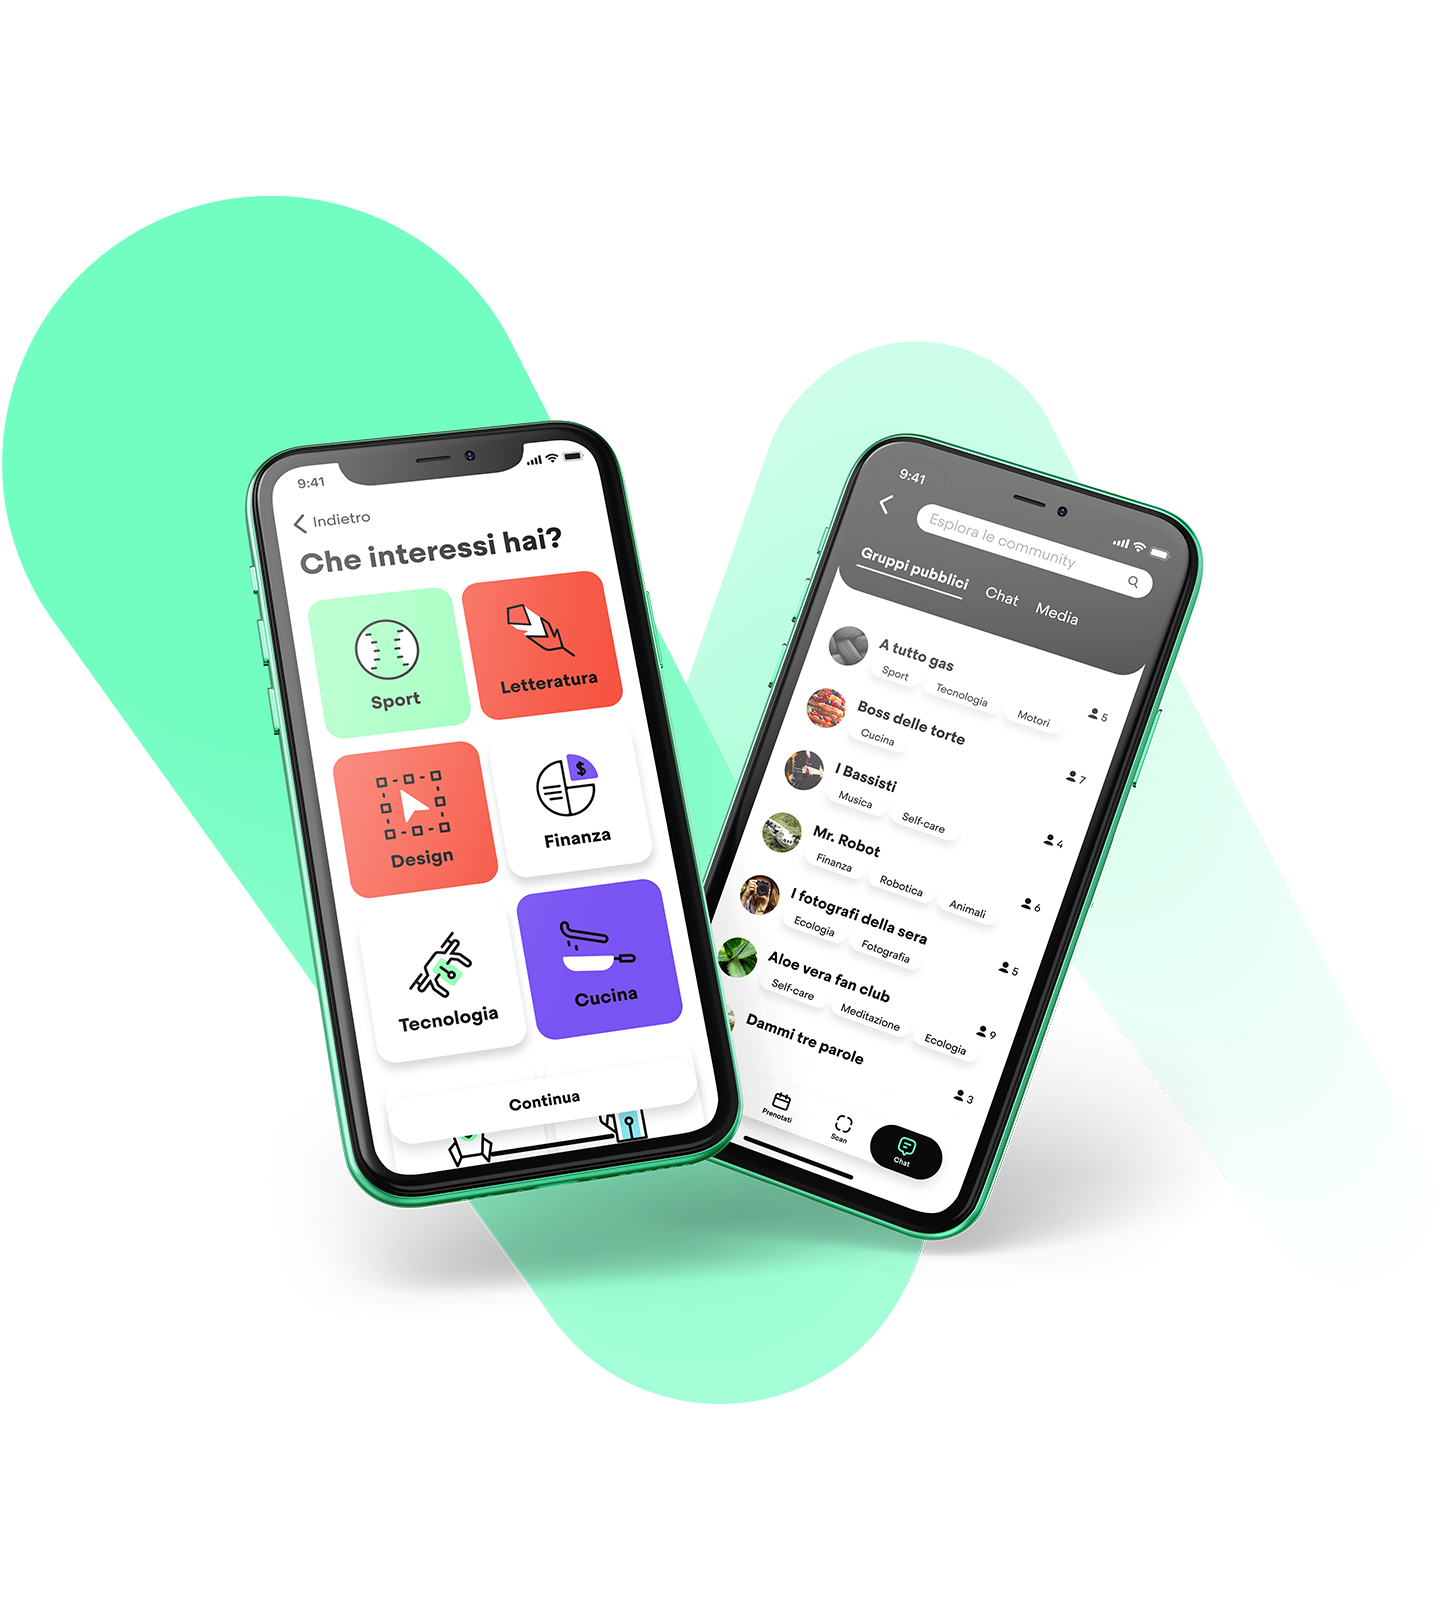
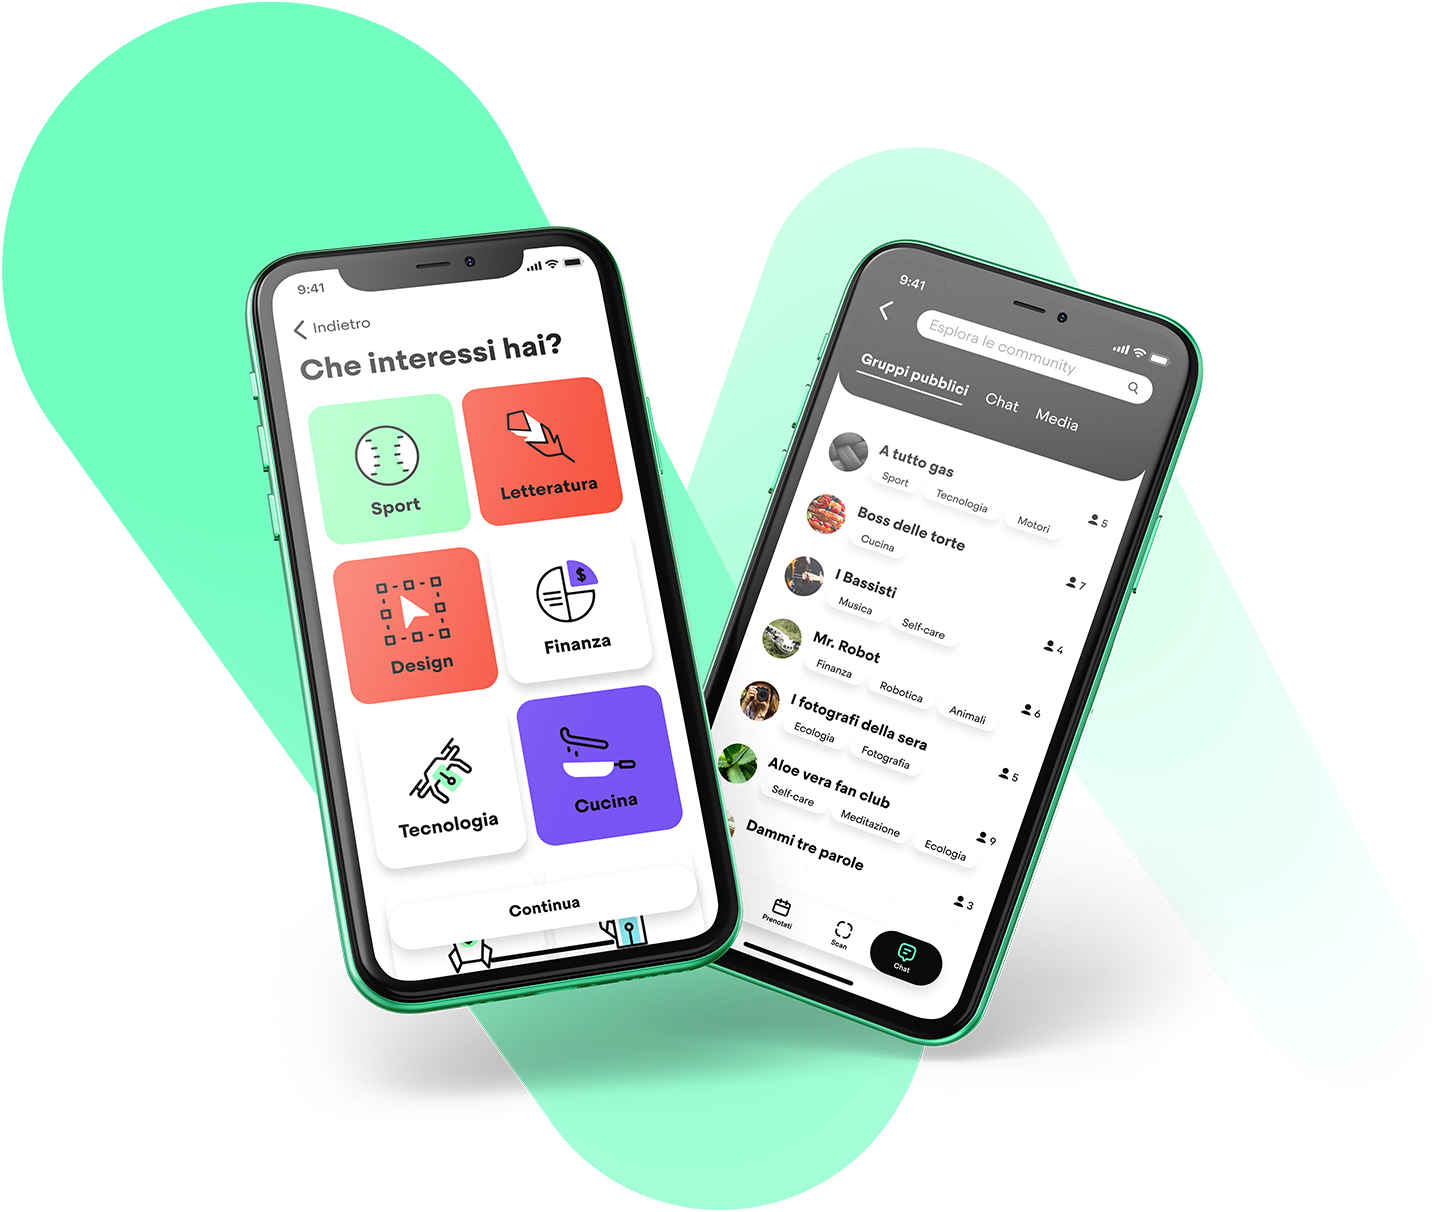
update mockup area

Changed region(s): [[0.0, 0.0, 0.8356, 1.0], [0.1238, 0.519, 0.1547, 0.5495], [0.0928, 0.4579, 0.1238, 0.4884]]

diff --git a/style.css b/style.css
@@ -633,12 +633,15 @@ justify-content: flex-start;
 /*mockup area*/
 #mockup-1 {
   padding-top: 0;
+  padding-bottom: 0;
 }
 #mockup-2 {
     padding-top: 0;
+    padding-bottom: 0;
 }
 #mockup-3 {
     padding-top: 0;
+    padding-bottom: 0;
 }
 
 ul.mockup-content {
@@ -691,7 +694,7 @@ ul.mockup-content {
 /*mockup area 2*/
 
 .mockup-2-right {
-  width: 30%;
+  max-width: 60%;
   flex-basis: 60%;
 }
 
@@ -699,6 +702,7 @@ ul.mockup-content {
   position: relative;
   font-family: 'Steradian-regular';
   flex-basis: 40%;
+  padding-left: 200px;
 }
 
 .mockup-area-2 p {
@@ -720,6 +724,7 @@ ul.mockup-content {
 
   .mockup-2-left {
     order: 2;
+    padding-left: 0;
   }
 
   .mockup-2-right {
@@ -736,14 +741,14 @@ ul.mockup-content {
 /*mockup area 3*/
 
 .mockup-3-left {
-  width: 30%;
-  flex-basis: 60%;
+  max-width: 60%;
+  flex-basis: 70%;
 }
 
 .mockup-3-right {
   position: relative;
   font-family: 'Steradian-regular';
-  flex-basis: 40%;
+  flex-basis: 30%;
 }
 
 .mockup-area-3 p {
